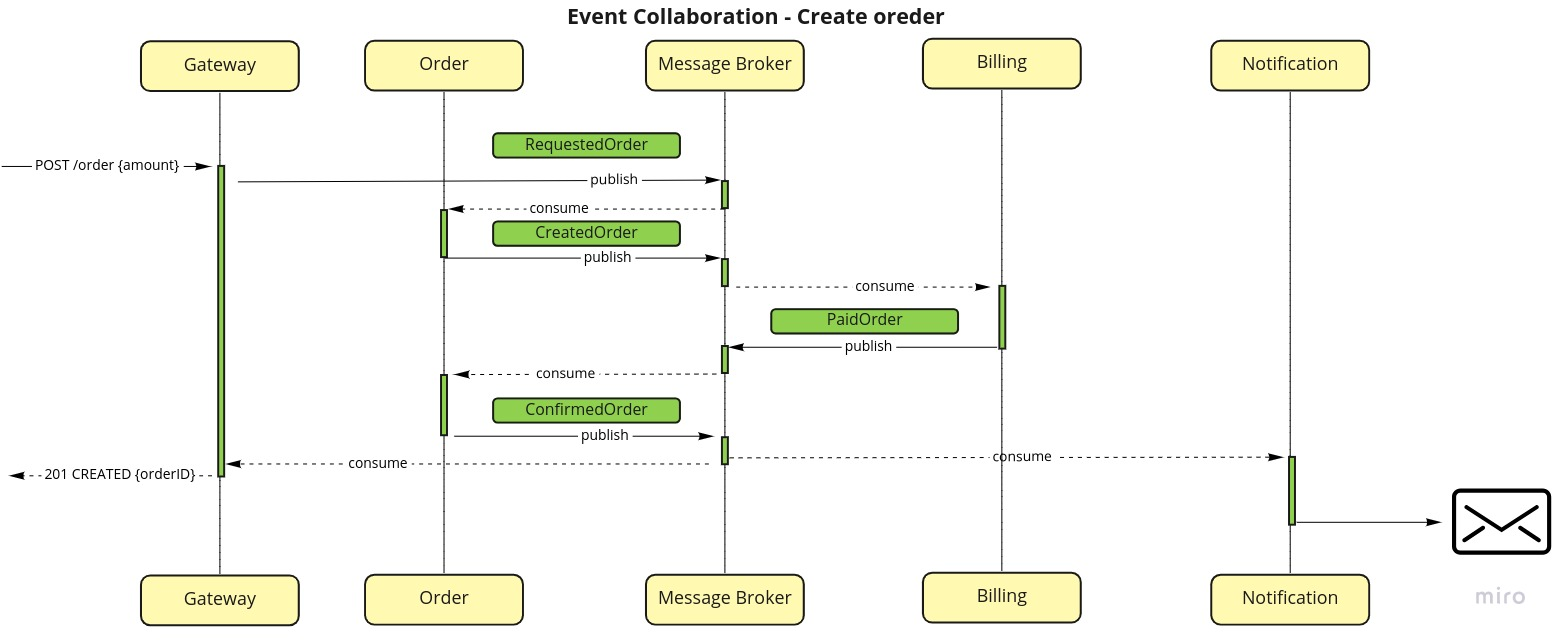
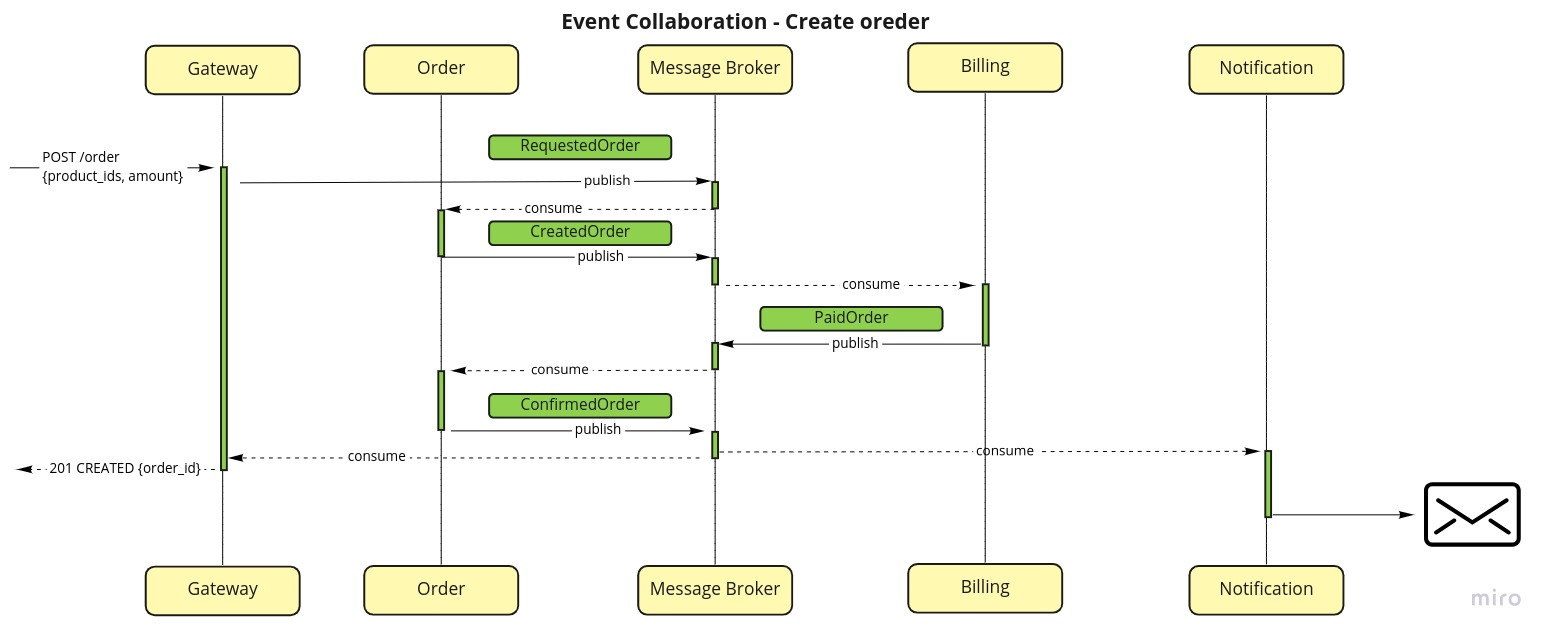
event collaboration

diff --git a/task06/README.md b/task06/README.md
@@ -24,10 +24,11 @@ Notification service should use a cache to reduce the count of requests to Accou
 
 - [Order service](https://github.com/ds-vologdin/otus-software-architect/blob/main/task06/arch/event%20notification/order.yml)
 - [Billing service](https://github.com/ds-vologdin/otus-software-architect/blob/main/task06/arch/event%20notification/billing.yml)
-- [Notification service](https://github.com/ds-vologdin/otus-software-architect/blob/main/task06/arch/event%20notification/notification.yml)
 - [Account service](https://github.com/ds-vologdin/otus-software-architect/blob/main/task06/arch/event%20notification/account.yml)
+- [Async scheme](https://github.com/ds-vologdin/otus-software-architect/blob/main/task06/arch/event%20notification/async.yml)
 
 ## Communication scheme
+
 ![event notification](https://github.com/ds-vologdin/otus-software-architect/blob/main/task06/images/event_notification.jpg)
 
 ### Notes
@@ -36,4 +37,16 @@ Notification service should use a cache to reduce the count of requests to Accou
 
 ## Event Collaboration
 
+All communications are async through a message broker.
+
+## IDL scheme
+
+[Async scheme](https://github.com/ds-vologdin/otus-software-architect/blob/main/task06/arch/event%20collaboration/async.yml)
+
+## Communication scheme
+
 ![event collaboration](https://github.com/ds-vologdin/otus-software-architect/blob/main/task06/images/event_collaboration.jpg)
+
+### Notes
+
+Notification service should have a view with contacts of users. For updates of this view, the service should listen to events CreateUser and UpdateUser. Here we don't consider these events.
